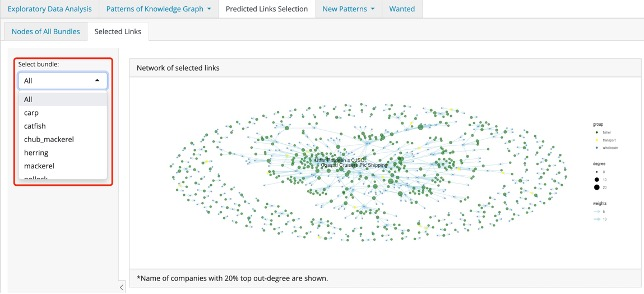
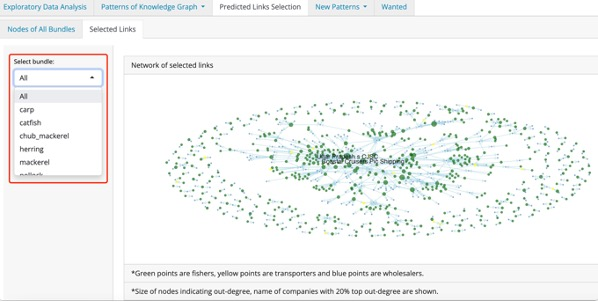
commit to change network image

diff --git a/_site/user_guide/shiny_user_guide.html b/_site/user_guide/shiny_user_guide.html
@@ -164,7 +164,7 @@ ul.task-list li input[type="checkbox"] {
     <div>
     <div class="quarto-title-meta-heading">Modified</div>
     <div class="quarto-title-meta-contents">
-      <p class="date-modified">July 3, 2023</p>
+      <p class="date-modified">July 4, 2023</p>
     </div>
   </div>
     
@@ -223,7 +223,7 @@ ul.task-list li input[type="checkbox"] {
 <li><p>Nodes size along with nodes’ out-degree;</p></li>
 <li><p>Edge width along with weights.</p></li>
 </ul>
-<p><img src="images/origin network.jpg" class="img-fluid" width="566"></p>
+<p><img src="images/origin network.jpg" class="img-fluid" width="592"></p>
 </section>
 </section>
 <section id="predicted-links-selection" class="level2">
@@ -237,7 +237,7 @@ ul.task-list li input[type="checkbox"] {
 <h3 class="anchored" data-anchor-id="selected-links"><strong>3.2 Selected Links</strong></h3>
 <p>This is the network graph of those 7 selected bundles. User can choose each bundle to gather a closer look at the network of each bundle, default selection is network of all selected bundles combined. Companies’ out-degree rank within top 20% would have their names shown on the graph.</p>
 <p>Same definition of nodes’ group, size and edge width used as knowledge network graph.</p>
-<p><img src="images/bundle network.jpg" class="img-fluid" width="622"></p>
+<p><img src="images/bundle network.jpg" class="img-fluid"></p>
 </section>
 </section>
 <section id="new-pattern" class="level2">
@@ -256,7 +256,7 @@ ul.task-list li input[type="checkbox"] {
 <h3 class="anchored" data-anchor-id="network-graph-1"><strong>4.2 Network Graph</strong></h3>
 <p>In this graph, network of hscode (“106414”) with most change after combined with selected bundles. Users can select type of network (original network or new combined network), and can also set maximum weight to filter the network by step of 10 within range of [1,800]. Companies’ out-degree rank within top 20% would have their names shown on the graph.</p>
 <p>Same definition of nodes’ group, size and edge width used as knowledge network graph.</p>
-<p><img src="images/new network.jpg" class="img-fluid" width="609"></p>
+<p><img src="images/new network.jpg" class="img-fluid"></p>
 </section>
 </section>
 <section id="wanted" class="level2">
